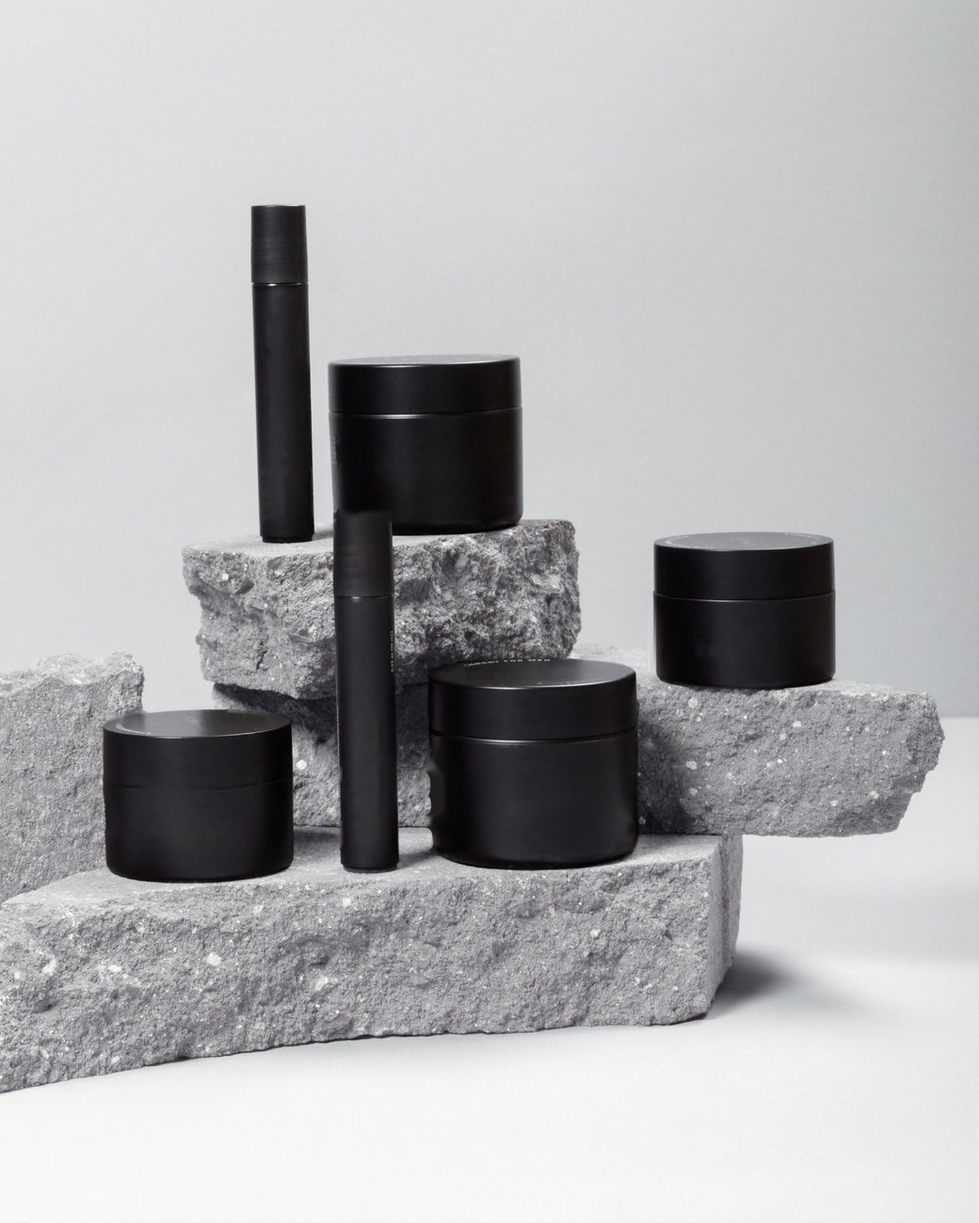
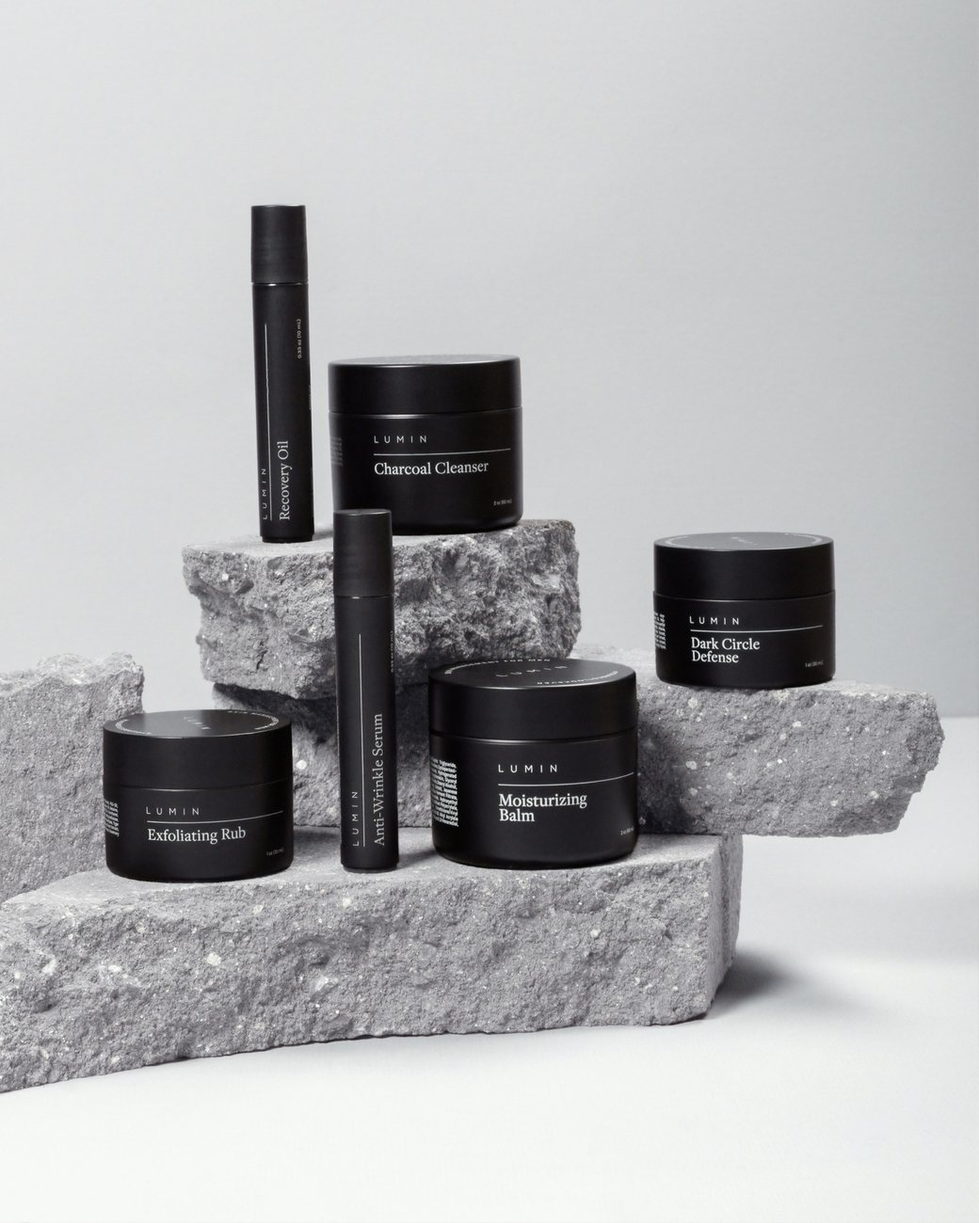
Bring back hero interactivity with floating labels; white comparison
- Hero: six floating glass labels around the photograph, each linking to
  a section; they drift with the pointer by depth, warm up as it nears,
  and light up strongly on hover, focus or tap while the others dim.
  Drifting dust scatters from the pointer. Phones get a tappable grid.
- Comparison section now white with a charcoal card and tick boxes
- About photos shown whole on the light background with only a faint
  edge fade; same treatment for the other light-section photos
- Original photos restored with their product branding

Claude-Session: https://claude.ai/code/session_01TuNUf4v1hfmzVTWzS7RgJz

diff --git a/chainex-site/assets/css/styles.css b/chainex-site/assets/css/styles.css
@@ -175,13 +175,13 @@ img{display:block;max-width:100%}
 @keyframes heroRise{from{translate:0 16px}}
 
 /* the photograph: frameless, backlit, tilting gently toward the pointer */
-.hero-visual{margin:0;position:relative;justify-self:end;width:min(100%,500px);min-width:0}
-.hv{position:relative;transform-style:preserve-3d;transform:perspective(1600px) rotateX(var(--rx,0deg)) rotateY(var(--ry,0deg));transition:transform 1s var(--ease);animation:heroSettle 1.6s var(--ease) both}
+.hero-visual{--oh-l:clamp(8px,6vw - 44px,46px);--oh-r:clamp(6px,max(4.5vw,(100vw - 1128px) / 2) - 28px,54px);--drift:18px;position:relative;justify-self:center;width:min(100%,560px);min-width:0}
+.hv{position:relative;z-index:1;width:78%;margin:0 auto;transform-style:preserve-3d;transform:perspective(1600px) rotateX(var(--rx,0deg)) rotateY(var(--ry,0deg));transition:transform 1s var(--ease);animation:heroSettle 1.6s var(--ease) both}
 @keyframes heroSettle{from{scale:.965}}
 .hv::before{content:"";position:absolute;inset:4% -8% 0;z-index:-1;border-radius:48px;transform:translateZ(-80px);
   background:radial-gradient(58% 52% at 50% 48%,rgba(255,226,184,.34),rgba(255,226,184,.09) 52%,transparent 74%);filter:blur(36px);animation:glowBreath 7s ease-in-out infinite}
 .hv-photo{position:relative;aspect-ratio:4/5;border-radius:30px;overflow:hidden;background:#C9CACC;
-  box-shadow:0 60px 90px -46px rgba(0,0,0,.9),0 0 50px -12px rgba(255,228,190,.32),0 0 120px -30px rgba(235,238,245,.18)}
+  box-shadow:0 60px 90px -46px rgba(0,0,0,.9),0 0 50px -12px rgba(255,228,190,.32),0 0 120px -30px rgba(235,238,245,.18);transition:box-shadow .5s}
 .hv-photo img{width:100%;height:100%;object-fit:cover;object-position:50% 72%;scale:1.04;
   translate:calc(var(--px,0) * -10px) calc(var(--py,0) * -8px);transition:translate 1s var(--ease);animation:slowZoom 26s ease-in-out infinite alternate}
 @keyframes slowZoom{from{scale:1.03}to{scale:1.09}}
@@ -192,21 +192,56 @@ img{display:block;max-width:100%}
 /* a lit line under the print, like light catching a glass shelf */
 .hv-floor{position:absolute;left:10%;right:10%;bottom:-18px;height:1px;border-radius:2px;background:linear-gradient(90deg,transparent,rgba(255,238,214,.9) 50%,transparent);box-shadow:0 0 18px 2px rgba(255,222,168,.45);opacity:.85}
 .hv-floor::after{content:"";position:absolute;left:12%;right:12%;top:1px;height:46px;background:radial-gradient(50% 100% at 50% 0%,rgba(255,226,184,.14),transparent);filter:blur(6px)}
-/* two glass notes floating in front of the print */
-.hv-chip{position:absolute;display:flex;align-items:center;gap:12px;max-width:min(292px,84%);padding:12px 16px 12px 12px;border-radius:18px;
-  background:rgba(29,30,34,.74);-webkit-backdrop-filter:blur(16px) saturate(1.15);backdrop-filter:blur(16px) saturate(1.15);
-  box-shadow:0 26px 44px -20px rgba(0,0,0,.8),inset 0 1px 0 rgba(255,255,255,.12),inset 0 0 0 1px rgba(255,255,255,.06),inset 0 -1.5px 0 rgba(var(--gc),.85),0 14px 30px -18px rgba(var(--gc),.75);
-  translate:calc(var(--px,0) * 14px) calc(var(--py,0) * 10px);transition:translate 1s var(--ease);animation:chipFloat 7s ease-in-out infinite}
-.hv-chip .tick{width:36px;height:36px;border-radius:11px}
-.hv-chip .tick .ico{width:19px;height:19px}
-.hv-chip .ibox.sm{width:36px;height:36px;border-radius:11px}
-.hv-chip .ibox.sm .ico{width:18px;height:18px}
-.hv-t{display:grid;gap:2px;min-width:0}
-.hv-t b{font-weight:600;font-size:14px;color:#fff;line-height:1.3}
-.hv-t small{font-size:12px;line-height:1.4;color:#A9ACB2}
-.hv-a{--gc:124,240,180;left:-64px;bottom:13%}
-.hv-b{--gc:255,222,168;right:-30px;top:8%;animation-delay:-3.5s}
-@keyframes chipFloat{0%,100%{transform:translateY(0)}50%{transform:translateY(-6px)}}
+/* drifting dust that scatters away from the pointer */
+.motes{position:absolute;left:-16%;top:-12%;width:132%;height:124%;z-index:0;pointer-events:none}
+
+/* floating glass labels: each one is a way into the page */
+.flabels{position:absolute;inset:0;z-index:3;pointer-events:none}
+.flabel{--near:0;--s:1;position:absolute;pointer-events:auto;display:flex;align-items:center;gap:11px;min-width:178px;padding:10px 14px 10px 10px;border-radius:16px;text-decoration:none;color:#ECEDEF;
+  background:linear-gradient(140deg,rgba(255,255,255,.11),rgba(255,255,255,.03) 52%,rgba(255,255,255,.07)),rgba(24,25,28,.44);
+  -webkit-backdrop-filter:blur(14px) saturate(1.2);backdrop-filter:blur(14px) saturate(1.2);
+  box-shadow:inset 0 0 0 1px rgba(255,255,255,calc(.13 + var(--near) * .32)),inset 0 1px 0 rgba(255,255,255,.34),0 22px 40px -22px rgba(0,0,0,.9),0 0 calc(6px + var(--near) * 36px) calc(var(--near) * 3px) rgba(255,228,190,calc(var(--near) * .5));
+  transform:perspective(900px) translate3d(calc(var(--px,0) * var(--d,1) * var(--drift)),calc(var(--py,0) * var(--d,1) * var(--drift) * .66),0) rotateY(calc(var(--ry0,0deg) + var(--px,0) * 8deg)) rotateX(calc(var(--py,0) * -6deg)) rotate(var(--rz0,0deg));
+  scale:var(--s);
+  transition:transform .9s var(--ease),scale .45s var(--ease),box-shadow .35s,background .35s,color .35s,opacity .4s;
+  animation:flIn 1.3s var(--ease) backwards,flFloat var(--fd,8s) ease-in-out infinite;animation-delay:calc(var(--i,0) * 90ms + .35s),var(--fdl,0s)}
+@keyframes flIn{from{scale:.82}}
+@keyframes flFloat{0%,100%{translate:0 0}50%{translate:0 -8px}}
+.fl-ic{display:grid;place-items:center;flex:none;width:34px;height:34px;border-radius:11px;background:linear-gradient(145deg,#3A3B40,#1C1D20);box-shadow:3px 4px 10px rgba(0,0,0,.45),inset 0 1px 0 rgba(255,255,255,.14);transition:box-shadow .35s}
+.fl-ic .ico{width:18px;height:18px;stroke-width:1.7;stroke:url(#gr-white);filter:drop-shadow(0 0 5px rgba(255,255,255,.4));transition:filter .35s}
+.fl-ic.green .ico{stroke:url(#gr-green);filter:drop-shadow(0 0 5px rgba(138,242,190,.5))}
+.fl-ic.blue .ico{stroke:url(#gr-blue);filter:drop-shadow(0 0 5px rgba(175,210,255,.5))}
+.fl-ic.warm .ico{stroke:url(#gr-bronze);filter:drop-shadow(0 0 5px rgba(255,226,184,.5))}
+.fl-t{display:grid;grid-template-rows:auto 0fr;min-width:0;transition:grid-template-rows .4s var(--ease)}
+.fl-t b{font-weight:600;font-size:14px;line-height:1.25;letter-spacing:-.005em;white-space:nowrap;transition:text-shadow .35s}
+.fl-t small{overflow:hidden;font-size:11.5px;line-height:1.35;color:#C3C6CC;opacity:0;transition:opacity .3s}
+.fl-go{width:15px;height:15px;margin-left:auto;opacity:.55;transition:translate .35s var(--ease),opacity .35s}
+.flabel::after{content:"";position:absolute;inset:0;border-radius:inherit;pointer-events:none;background:linear-gradient(110deg,transparent 38%,rgba(255,255,255,.32) 50%,transparent 62%) no-repeat;background-size:260% 100%;background-position:130% 0;opacity:0}
+/* lit: on hover, keyboard focus or tap the label lights up strongly and the others step back */
+.flabel:hover,.flabel:focus-visible,.flabel:active{z-index:6;color:#fff;scale:calc(var(--s) * 1.07);
+  background:linear-gradient(140deg,rgba(255,251,245,.4),rgba(255,243,228,.16) 55%,rgba(255,238,216,.3)),rgba(58,56,54,.56);
+  box-shadow:inset 0 0 0 1px #FFF8EE,inset 0 1px 0 #fff,inset 0 0 20px rgba(255,236,210,.28),0 0 0 1px rgba(255,236,210,.55),0 0 28px 6px rgba(255,234,200,.88),0 0 84px 18px rgba(255,214,160,.52),0 0 180px 44px rgba(255,206,150,.24),0 26px 44px -20px rgba(0,0,0,.85)}
+.flabel:focus-visible{outline:2px solid rgba(255,246,232,.95);outline-offset:4px}
+.flabel:hover .fl-t,.flabel:focus-visible .fl-t{grid-template-rows:auto 1fr}
+.flabel:hover .fl-t small,.flabel:focus-visible .fl-t small{opacity:1}
+.flabel:hover .fl-t b,.flabel:focus-visible .fl-t b{text-shadow:0 0 14px rgba(255,240,222,.8)}
+.flabel:hover .fl-ic,.flabel:focus-visible .fl-ic,.flabel:active .fl-ic{background:linear-gradient(145deg,#FFF8EE,#E9D9C4);box-shadow:inset 0 1px 0 #fff,0 0 0 1px rgba(255,240,222,.6),0 0 22px rgba(255,232,196,.85)}
+.flabel:hover .fl-ic .ico,.flabel:focus-visible .fl-ic .ico,.flabel:active .fl-ic .ico{stroke:#17181B;filter:none}
+.flabel:hover .fl-go,.flabel:focus-visible .fl-go{translate:4px 0;opacity:1}
+.flabel:hover::after,.flabel:focus-visible::after{opacity:1;animation:flSheen 1.1s var(--ease) both}
+@keyframes flSheen{from{background-position:130% 0}to{background-position:-30% 0}}
+.flabels:has(.flabel:hover) .flabel:not(:hover),.flabels:has(.flabel:focus-visible) .flabel:not(:focus-visible){opacity:.4}
+.hero-visual:has(.flabel:hover) .hv-photo,.hero-visual:has(.flabel:focus-visible) .hv-photo{box-shadow:0 60px 90px -46px rgba(0,0,0,.9),0 0 70px -6px rgba(255,228,190,.55),0 0 150px -20px rgba(255,236,214,.3)}
+/* where each label floats: depth (--d) sets how far it drifts with the pointer */
+.f1{left:calc(-1 * var(--oh-l));top:7%;--ry0:12deg;--rz0:-2deg;--s:1.02;--i:0;--fd:8.4s;--fdl:0s;z-index:4}
+.f2{right:calc(-1 * var(--oh-r));top:19%;--ry0:-12deg;--rz0:2deg;--s:.94;--i:1;--fd:9.2s;--fdl:-2.6s;z-index:2}
+.f3{left:calc(-1.35 * var(--oh-l));top:41%;--ry0:12deg;--rz0:-1.5deg;--i:2;--fd:7.6s;--fdl:-5s;z-index:3}
+.f4{right:calc(-1.3 * var(--oh-r));top:54%;--ry0:-12deg;--rz0:1.5deg;--s:.97;--i:3;--fd:8.8s;--fdl:-1.4s;z-index:3}
+.f5{left:calc(-.8 * var(--oh-l));top:75%;--ry0:12deg;--rz0:-2deg;--s:.94;--i:4;--fd:9.6s;--fdl:-3.8s;z-index:2}
+.f6{right:calc(-.9 * var(--oh-r));top:86%;--ry0:-12deg;--rz0:2deg;--s:1.02;--i:5;--fd:8s;--fdl:-6.2s;z-index:4}
+#testing{scroll-margin-top:96px}
+@media (max-width:1240px){.hero-visual{--drift:12px}}
+@media (min-width:641px) and (max-width:1100px){.flabel{min-width:0;gap:9px;padding:9px 12px 9px 9px}.fl-ic{width:30px;height:30px;border-radius:10px}.fl-ic .ico{width:16px;height:16px}.fl-t b{font-size:13px}}
 
 /* the trust line along the bottom of the hero */
 .hero-proof{position:relative;z-index:1;display:grid;grid-template-columns:repeat(4,minmax(0,1fr));border-top:1px solid rgba(255,255,255,.08)}
@@ -215,16 +250,32 @@ img{display:block;max-width:100%}
 .hero-proof li + li{border-left:1px solid rgba(255,255,255,.07)}
 .hero-proof .ico{width:20px;height:20px;color:#EDE6DA;stroke-width:1.4;filter:drop-shadow(0 0 6px rgba(255,226,184,.35))}
 
-@media (max-width:1180px){.hv-a{left:-36px}.hv-b{right:-14px}}
+@media (min-width:981px){.hero-grid{grid-template-columns:minmax(0,1fr) minmax(0,1fr)}}
 @media (max-width:980px){
   .hero{min-height:0}
-  .hero-grid{grid-template-columns:minmax(0,1fr);gap:56px;padding-block:24px 64px}
+  .hero-grid{grid-template-columns:minmax(0,1fr);gap:64px;padding-block:24px 72px}
   .hero-copy{max-width:640px}
-  .hero-visual{justify-self:center;width:min(100%,460px)}
-  .hv-a{left:-14px}.hv-b{right:-10px}
+  .hero-visual{--oh-l:clamp(12px,(100vw - 560px) / 2 - 36px,90px);--oh-r:var(--oh-l)}
   .hero-proof{grid-template-columns:repeat(2,minmax(0,1fr))}
   .hero-proof li:nth-child(3){border-left:0;padding-left:0}
   .hero-proof li:nth-child(n+3){border-top:1px solid rgba(255,255,255,.07)}
+}
+/* phones: the labels settle into a tidy grid under the photograph, each still a tap away */
+@media (max-width:640px){
+  .hero-grid{padding-bottom:48px}
+  .hero-visual{width:100%}
+  .hv{width:100%}
+  .motes{display:none}
+  .flabels{position:static;display:grid;grid-template-columns:repeat(2,minmax(0,1fr));gap:10px;margin-top:40px}
+  .flabel{position:relative;inset:auto;min-width:0;align-items:flex-start;gap:10px;padding:11px 11px 12px;transform:none;scale:1;animation:none}
+  .flabel:hover,.flabel:focus-visible,.flabel:active{scale:1.03}
+  .flabels:has(.flabel:hover) .flabel:not(:hover){opacity:1}
+  .fl-ic{width:30px;height:30px;border-radius:9px}
+  .fl-ic .ico{width:16px;height:16px}
+  .fl-t{grid-template-rows:auto 1fr;gap:3px}
+  .fl-t b{white-space:normal;font-size:13px}
+  .fl-t small{opacity:1;font-size:11px}
+  .fl-go{display:none}
 }
 @media (max-width:560px){
   .hero-kicker{font-size:11px;letter-spacing:.16em}
@@ -232,11 +283,6 @@ img{display:block;max-width:100%}
   .hero-ctas{width:100%}
   .hero-ctas .btn{flex:1 1 auto;justify-content:center}
   .hv-photo{border-radius:24px}
-  .hv-chip{padding:10px 12px 10px 10px;gap:10px;border-radius:15px;max-width:78%}
-  .hv-chip .tick,.hv-chip .ibox.sm{width:30px;height:30px;border-radius:9px}
-  .hv-t b{font-size:12.5px}
-  .hv-t small{font-size:11px}
-  .hv-a{left:-6px;bottom:9%}.hv-b{right:-6px;top:6%}
   .hero-proof li{padding:16px 12px;font-size:12.5px;gap:10px}
   .hero-proof li:nth-child(odd){padding-left:0}
 }
@@ -244,6 +290,7 @@ img{display:block;max-width:100%}
   .hero-proof{grid-template-columns:minmax(0,1fr)}
   .hero-proof li + li{border-left:0;border-top:1px solid rgba(255,255,255,.07);padding-left:0}
 }
+@media (prefers-reduced-motion: reduce){.flabel,.hv,.hv-photo img,.hv-sheen{animation:none!important}}
 
 /* photography */
 .shot{margin:0;display:grid;gap:12px}
@@ -1007,20 +1054,23 @@ html.lock .msg-fab{display:none}
 @media (prefers-reduced-motion: reduce){.p-caret,.cert-front,.b-cart.bump{animation:none!important}.tl-fill{transition:none}}
 
 /* ===== Photography placed through the page ===== */
-/* About: factory floor, cleanroom and lab, side by side */
-.photo-trio{display:grid;grid-template-columns:minmax(0,1.05fr) minmax(0,1.25fr) minmax(0,.8fr);gap:clamp(12px,1.6vw,24px);align-items:start;margin-top:clamp(48px,6vw,80px)}
-.photo-trio .frame{height:clamp(260px,32vw,460px)}
-.photo-trio img{height:100%;aspect-ratio:auto}
-.photo-trio .t-floor img{object-position:50% 50%}
-.photo-trio .t-lab img{object-position:50% 38%}
-@media (max-width:820px){.photo-trio{grid-template-columns:minmax(0,1fr) minmax(0,1fr)}.photo-trio .t-floor{grid-column:1/-1}.photo-trio .t-floor .frame{height:clamp(280px,56vw,420px)}}
-@media (max-width:560px){.photo-trio{grid-template-columns:minmax(0,1fr)}.photo-trio .frame,.photo-trio .t-floor .frame{height:auto}.photo-trio img{height:auto;aspect-ratio:4/3}}
+/* Photos on light sections are shown whole: no crop, only the outermost edge softened */
+.photo-trio img,.hs-media img,.faq-shot img,.ob-media img{display:block;width:100%;height:auto;aspect-ratio:auto}
+.light .photo-trio img,.light .hs-media img,.light .faq-shot img,.light .ob-media img{
+  -webkit-mask-image:linear-gradient(180deg,transparent,#000 8px,#000 calc(100% - 8px),transparent),linear-gradient(90deg,transparent,#000 8px,#000 calc(100% - 8px),transparent);-webkit-mask-composite:source-in;
+  mask-image:linear-gradient(180deg,transparent,#000 8px,#000 calc(100% - 8px),transparent),linear-gradient(90deg,transparent,#000 8px,#000 calc(100% - 8px),transparent);mask-composite:intersect}
 
-/* Services: own brand feature with a blank tube */
+/* About: factory floor, cleanroom and lab. Columns follow each photo's shape, so all three stand the same height */
+.photo-trio{display:grid;grid-template-columns:minmax(0,.789fr) minmax(0,1.333fr) minmax(0,.667fr);grid-template-areas:"floor clean lab";gap:clamp(14px,1.8vw,26px);align-items:start;margin-top:clamp(48px,6vw,80px)}
+.photo-trio .t-floor{grid-area:floor}
+.photo-trio .t-clean{grid-area:clean}
+.photo-trio .t-lab{grid-area:lab}
+.photo-trio figcaption{text-align:left}
+@media (max-width:820px){.photo-trio{grid-template-columns:minmax(0,.789fr) minmax(0,.667fr);grid-template-areas:"floor lab" "clean clean"}}
+
+/* Services: own brand feature */
 .ownbrand{display:grid;grid-template-columns:minmax(0,.85fr) minmax(0,1.15fr);gap:clamp(28px,5vw,80px);align-items:center;margin-top:clamp(56px,7vw,104px)}
 .ob-media{margin:0}
-.ob-media img{display:block;width:100%;height:auto;aspect-ratio:4/5;object-fit:cover;object-position:50% 46%;
-  -webkit-mask-image:radial-gradient(ellipse 68% 70% at 50% 48%,#000 50%,transparent 100%);mask-image:radial-gradient(ellipse 68% 70% at 50% 48%,#000 50%,transparent 100%)}
 .ob-copy{display:grid;gap:18px;justify-items:start;max-width:560px}
 .ob-title{font-weight:300;font-size:clamp(28px,2.8vw,40px);line-height:1.15;letter-spacing:-.02em;color:var(--ink)}
 .ob-title em{font-style:normal;color:#989BA3}
@@ -1030,17 +1080,25 @@ html.lock .msg-fab{display:none}
 /* Setups: the customer's checkout beside the heading */
 .head-split{display:grid;grid-template-columns:minmax(0,1.35fr) minmax(0,1fr);gap:clamp(28px,4vw,64px);align-items:end;margin-bottom:clamp(40px,5vw,64px)}
 .head-split .sec-head{margin-bottom:0}
-.hs-media .frame{height:clamp(220px,22vw,320px)}
-.hs-media img{height:100%;aspect-ratio:auto;object-position:42% 50%}
 @media (max-width:900px){.head-split{grid-template-columns:minmax(0,1fr)}.hs-media{width:min(100%,520px)}}
 
-/* FAQ: a brand owner at their store, under the heading */
+/* FAQ: someone setting up their store, under the heading */
 .faq-side{display:grid;gap:clamp(24px,3vw,40px);align-content:start;min-width:0}
-.faq-shot .frame{height:clamp(300px,32vw,460px)}
-.faq-shot img{height:100%;aspect-ratio:auto;object-position:50% 42%}
-@media (max-width:900px){.faq-shot .frame{height:auto}.faq-shot img{height:auto;aspect-ratio:16/10}}
+.faq-shot{max-width:340px}
+@media (max-width:900px){.faq-shot{max-width:none}.faq-shot img{aspect-ratio:4/3;object-fit:cover;object-position:50% 40%}}
 
-/* New photographs fade out on all four sides, so no edge shows against the section */
-.light .photo-trio img,.light .hs-media img,.light .faq-shot img,.light .ob-media img,.shot.care-banner img{
+/* Aftercare: the sealing bench fades into the charcoal on every side */
+.shot.care-banner img{
   -webkit-mask-image:linear-gradient(180deg,transparent,#000 15%,#000 85%,transparent),linear-gradient(90deg,transparent,#000 13%,#000 87%,transparent);-webkit-mask-composite:source-in;
   mask-image:linear-gradient(180deg,transparent,#000 15%,#000 85%,transparent),linear-gradient(90deg,transparent,#000 13%,#000 87%,transparent);mask-composite:intersect}
+
+/* Comparison: a white page, charcoal card and charcoal accents */
+.section.white{background:linear-gradient(180deg,#EBEDF0 0%,#F7F8FA 32%,#F7F8FA 100%);color:var(--ink);color-scheme:light}
+#about + .section.white{padding-top:clamp(28px,4vw,56px)}
+.white .compare-copy .eyebrow{color:var(--ink-3)}
+.white .compare-copy .h-section{color:var(--ink)}
+.white .compare-copy .h-section em{color:#989BA3}
+.white .compare-copy .lede{color:var(--ink-2)}
+.white .points li{color:var(--ink)}
+.white .tick{box-shadow:3px 5px 12px rgba(17,18,20,.24),inset 0 1px 0 rgba(255,255,255,.14)}
+.white .cmp-card{color:var(--text);color-scheme:dark;background:linear-gradient(155deg,#2A2B2F,#1C1D20 78%);box-shadow:0 46px 80px -42px rgba(17,18,20,.62),0 18px 36px -26px rgba(17,18,20,.34),inset 0 1px 0 rgba(255,255,255,.08)}

diff --git a/chainex-site/index.html b/chainex-site/index.html
@@ -95,23 +95,24 @@
       <a class="hero-more" href="#about">See how we work<svg class="ico" aria-hidden="true"><use href="#i-arrow"/></svg></a>
     </div>
 
-    <figure class="hero-visual" id="heroVisual">
-      <div class="hv">
+    <div class="hero-visual" id="heroVisual">
+      <canvas class="motes" id="motes" aria-hidden="true"></canvas>
+      <figure class="hv">
         <div class="hv-photo">
-          <img src="assets/img/hero-still.jpg" alt="Unbranded black skincare jars and tubes arranged on grey stone" width="1040" height="1300" fetchpriority="high" decoding="async">
+          <img src="assets/img/hero-still.jpg" alt="Black skincare jars and tubes arranged on grey stone" width="1040" height="1300" fetchpriority="high" decoding="async">
           <i class="hv-sheen" aria-hidden="true"></i>
         </div>
-      </div>
-      <i class="hv-floor" aria-hidden="true"></i>
-      <div class="hv-chip hv-a">
-          <span class="tick" aria-hidden="true"><svg class="ico"><use href="#i-tick"/></svg></span>
-          <span class="hv-t"><b>Supplier verified</b><small>Registration, certificates and bank details matched</small></span>
-        </div>
-        <div class="hv-chip hv-b">
-          <span class="ibox sm white" aria-hidden="true"><svg class="ico"><use href="#i-doc"/></svg></span>
-          <span class="hv-t"><b>Sample report ready</b><small>Tested to an agreed protocol, with photos and video</small></span>
-        </div>
-    </figure>
+        <i class="hv-floor" aria-hidden="true"></i>
+      </figure>
+      <nav class="flabels" aria-label="Explore Chainex">
+        <a class="flabel f1" href="#quality" style="--d:1.25"><span class="fl-ic green" aria-hidden="true"><svg class="ico"><use href="#i-shield"/></svg></span><span class="fl-t"><b>Verified suppliers</b><small>Checked before you pay</small></span><svg class="ico fl-go" aria-hidden="true"><use href="#i-arrow"/></svg></a>
+        <a class="flabel f2" href="#compare" style="--d:.8"><span class="fl-ic blue" aria-hidden="true"><svg class="ico"><use href="#i-chart"/></svg></span><span class="fl-t"><b>Landed cost</b><small>Compare true unit prices</small></span><svg class="ico fl-go" aria-hidden="true"><use href="#i-arrow"/></svg></a>
+        <a class="flabel f3" href="#testing" style="--d:1.05"><span class="fl-ic warm" aria-hidden="true"><svg class="ico"><use href="#i-doc"/></svg></span><span class="fl-t"><b>Sample testing</b><small>Photos, video and a report</small></span><svg class="ico fl-go" aria-hidden="true"><use href="#i-arrow"/></svg></a>
+        <a class="flabel f4" href="#savings" style="--d:.9"><span class="fl-ic green" aria-hidden="true"><svg class="ico"><use href="#i-down"/></svg></span><span class="fl-t"><b>Savings</b><small>Watch the difference add up</small></span><svg class="ico fl-go" aria-hidden="true"><use href="#i-arrow"/></svg></a>
+        <a class="flabel f5" href="#process" style="--d:.75"><span class="fl-ic white" aria-hidden="true"><svg class="ico"><use href="#i-sync"/></svg></span><span class="fl-t"><b>Six stages</b><small>How we work, start to finish</small></span><svg class="ico fl-go" aria-hidden="true"><use href="#i-arrow"/></svg></a>
+        <a class="flabel f6" href="#setups" style="--d:1.15"><span class="fl-ic warm" aria-hidden="true"><svg class="ico"><use href="#i-cube"/></svg></span><span class="fl-t"><b>Fulfilment setups</b><small>Dropship, bulk or 3PL</small></span><svg class="ico fl-go" aria-hidden="true"><use href="#i-arrow"/></svg></a>
+      </nav>
+    </div>
   </div>
 
   <div class="wrap">
@@ -179,8 +180,7 @@
 </section>
 
 <!-- COMPARISON -->
-<section class="section alt" id="compare" aria-labelledby="cmpSecTitle">
-  <i class="streak" aria-hidden="true"></i>
+<section class="section white" id="compare" aria-labelledby="cmpSecTitle">
   <div class="wrap compare-grid">
     <div class="compare-copy">
       <div class="sec-head" style="margin-bottom:0">
@@ -195,7 +195,7 @@
       </ul>
     </div>
 
-    <figure class="cmp-card glow-cyan" id="cmpCard" aria-labelledby="cmpTitle">
+    <figure class="cmp-card" id="cmpCard" aria-labelledby="cmpTitle">
       <div class="cmp-top">
         <div class="t">
           <span class="mono-label">Supplier comparison</span>
@@ -424,7 +424,7 @@
     </div>
 
     <div class="ownbrand">
-      <figure class="ob-media"><img src="assets/img/blank-tube.jpg" alt="A blank white cosmetic tube standing in folds of white linen, ready for a brand's own label" width="960" height="1200" loading="lazy"></figure>
+      <figure class="ob-media"><img src="assets/img/white-tube.jpg" alt="A white body lotion tube standing in folds of white linen" width="960" height="1200" loading="lazy"></figure>
       <div class="ob-copy">
         <p class="eyebrow">Own brand development</p>
         <h3 class="ob-title">From a stock product to one that is <em>genuinely yours.</em></h3>
@@ -553,7 +553,7 @@
         <p class="report-note">After launch, we buy from your store as a customer would and retest against the same benchmark. <a href="#aftercare">See how we stay hands on</a></p>
       </div>
     </div>
-    <div class="reel" aria-labelledby="reelTitle">
+    <div class="reel" id="testing" aria-labelledby="reelTitle">
       <div class="reel-head">
         <div><p class="eyebrow">From our test bench</p><h3 id="reelTitle">How we document, test and report on real samples.</h3></div>
         <div class="reel-nav"><button type="button" class="icon-btn reel-prev" aria-label="Previous"><svg class="ico"><use href="#i-back"/></svg></button><button type="button" class="icon-btn reel-next" aria-label="Next"><svg class="ico"><use href="#i-arrow"/></svg></button></div>

diff --git a/chainex-site/assets/js/main.js b/chainex-site/assets/js/main.js
@@ -10,24 +10,66 @@
   var onScroll=function(){nav.classList.toggle('scrolled',window.scrollY>24||!menu.hidden)};
   window.addEventListener('scroll',onScroll,{passive:true});
 
-  /* Hero: the photograph tilts toward the pointer, a soft spotlight follows it, the buttons lean in */
+  /* Hero: the photograph tilts toward the pointer, a soft spotlight follows it, the floating labels
+     drift by depth and warm up as the pointer comes near, and the buttons lean in */
   var hero=$('.hero'), hv=$('#heroVisual');
-  if(hero&&hv&&!reduce&&window.matchMedia('(pointer: fine)').matches){
-    var heroRaf=0,last=null;
+  var fine=window.matchMedia&&window.matchMedia('(pointer: fine)').matches;
+  if(hero&&hv&&!reduce&&fine){
+    var labels=$$('.flabel',hv),heroRaf=0,last=null;
     var applyTilt=function(){
       heroRaf=0;if(!last)return;
       var hr=hero.getBoundingClientRect(),r=hv.getBoundingClientRect();
+      var rects=labels.map(function(l){return l.getBoundingClientRect()});
       hero.style.setProperty('--sx',(last.x-hr.left)+'px');hero.style.setProperty('--sy',(last.y-hr.top)+'px');
       var x=Math.max(-1,Math.min(1,((last.x-r.left)/r.width-.5)*2)),y=Math.max(-1,Math.min(1,((last.y-r.top)/r.height-.5)*2));
       hv.style.setProperty('--ry',(x*6).toFixed(2)+'deg');hv.style.setProperty('--rx',(-y*4.5).toFixed(2)+'deg');
       hv.style.setProperty('--px',x.toFixed(3));hv.style.setProperty('--py',y.toFixed(3));
+      labels.forEach(function(l,k){
+        var b=rects[k],dx=last.x-(b.left+b.width/2),dy=last.y-(b.top+b.height/2);
+        l.style.setProperty('--near',Math.max(0,1-Math.sqrt(dx*dx+dy*dy)/260).toFixed(3));
+      });
     };
     hero.addEventListener('pointermove',function(e){last={x:e.clientX,y:e.clientY};if(!heroRaf)heroRaf=requestAnimationFrame(applyTilt)});
-    hero.addEventListener('pointerleave',function(){last=null;['--rx','--ry','--px','--py'].forEach(function(p){hv.style.removeProperty(p)})});
+    hero.addEventListener('pointerleave',function(){
+      last=null;['--rx','--ry','--px','--py'].forEach(function(p){hv.style.removeProperty(p)});
+      labels.forEach(function(l){l.style.removeProperty('--near')});
+    });
     $$('.hero-ctas .btn').forEach(function(btn){
       btn.addEventListener('pointermove',function(e){var r=btn.getBoundingClientRect();btn.style.translate=((e.clientX-r.left-r.width/2)*.16).toFixed(1)+'px '+((e.clientY-r.top-r.height/2)*.28).toFixed(1)+'px'});
       btn.addEventListener('pointerleave',function(){btn.style.translate=''});
     });
+  }
+
+  /* Hero: dust drifting up past the photograph, pushed aside by the pointer */
+  var cv=$('#motes'), cx=cv&&cv.getContext&&cv.getContext('2d');
+  if(cx&&!reduce){
+    var W=0,H=0,dpr=Math.min(window.devicePixelRatio||1,2),motes=[],mouse={x:-9999,y:-9999},on=true,raf=0;
+    var size=function(){var r=cv.getBoundingClientRect();W=r.width;H=r.height;cv.width=W*dpr;cv.height=H*dpr;cx.setTransform(dpr,0,0,dpr,0,0)};
+    var make=function(init){return {x:Math.random(),y:init?.1+Math.random()*.85:.86+Math.random()*.12,r:.4+Math.random()*1.3,v:.00016+Math.random()*.0004,ph:Math.random()*6.283,vx:0,vy:0,warm:Math.random()<.5}};
+    for(var i=0;i<54;i++)motes.push(make(true));
+    if(fine){
+      hv.addEventListener('pointermove',function(e){var r=cv.getBoundingClientRect();mouse.x=e.clientX-r.left;mouse.y=e.clientY-r.top});
+      hv.addEventListener('pointerleave',function(){mouse.x=mouse.y=-9999});
+    }
+    var tick=function(){
+      cx.clearRect(0,0,W,H);
+      motes.forEach(function(m,k){
+        m.y-=m.v;m.ph+=.012;
+        var px=m.x*W,py=m.y*H,dx=px-mouse.x,dy=py-mouse.y,dd=dx*dx+dy*dy;
+        if(dd<10000){var f=(1-dd/10000)*.7;m.vx+=dx/Math.sqrt(dd+1)*f;m.vy+=dy/Math.sqrt(dd+1)*f}
+        m.vx*=.92;m.vy*=.92;px+=m.vx;py+=m.vy;m.x=px/W;m.y=py/H;
+        if(m.y<.03||m.x<-.05||m.x>1.05){motes[k]=make(false);return}
+        var fade=Math.max(0,Math.min(1,(m.y-.04)/.22)*Math.min(1,(.97-m.y)/.18));
+        var a=fade*(.32+.32*Math.sin(m.ph));
+        cx.beginPath();cx.arc(px,py,m.r,0,6.283);
+        cx.fillStyle=m.warm?'rgba(240,222,198,'+a+')':'rgba(255,255,255,'+a+')';cx.fill();
+      });
+      raf=on&&!document.hidden?requestAnimationFrame(tick):0;
+    };
+    size();window.addEventListener('resize',size);
+    if('IntersectionObserver' in window)new IntersectionObserver(function(en){on=en[0].isIntersecting;if(on){size();if(!raf)raf=requestAnimationFrame(tick)}}).observe(cv);
+    else raf=requestAnimationFrame(tick);
+    document.addEventListener('visibilitychange',function(){if(on&&!document.hidden&&!raf)raf=requestAnimationFrame(tick)});
   }
 
   /* Savings chart: a faint line is always visible; the bright line draws over it on view.
